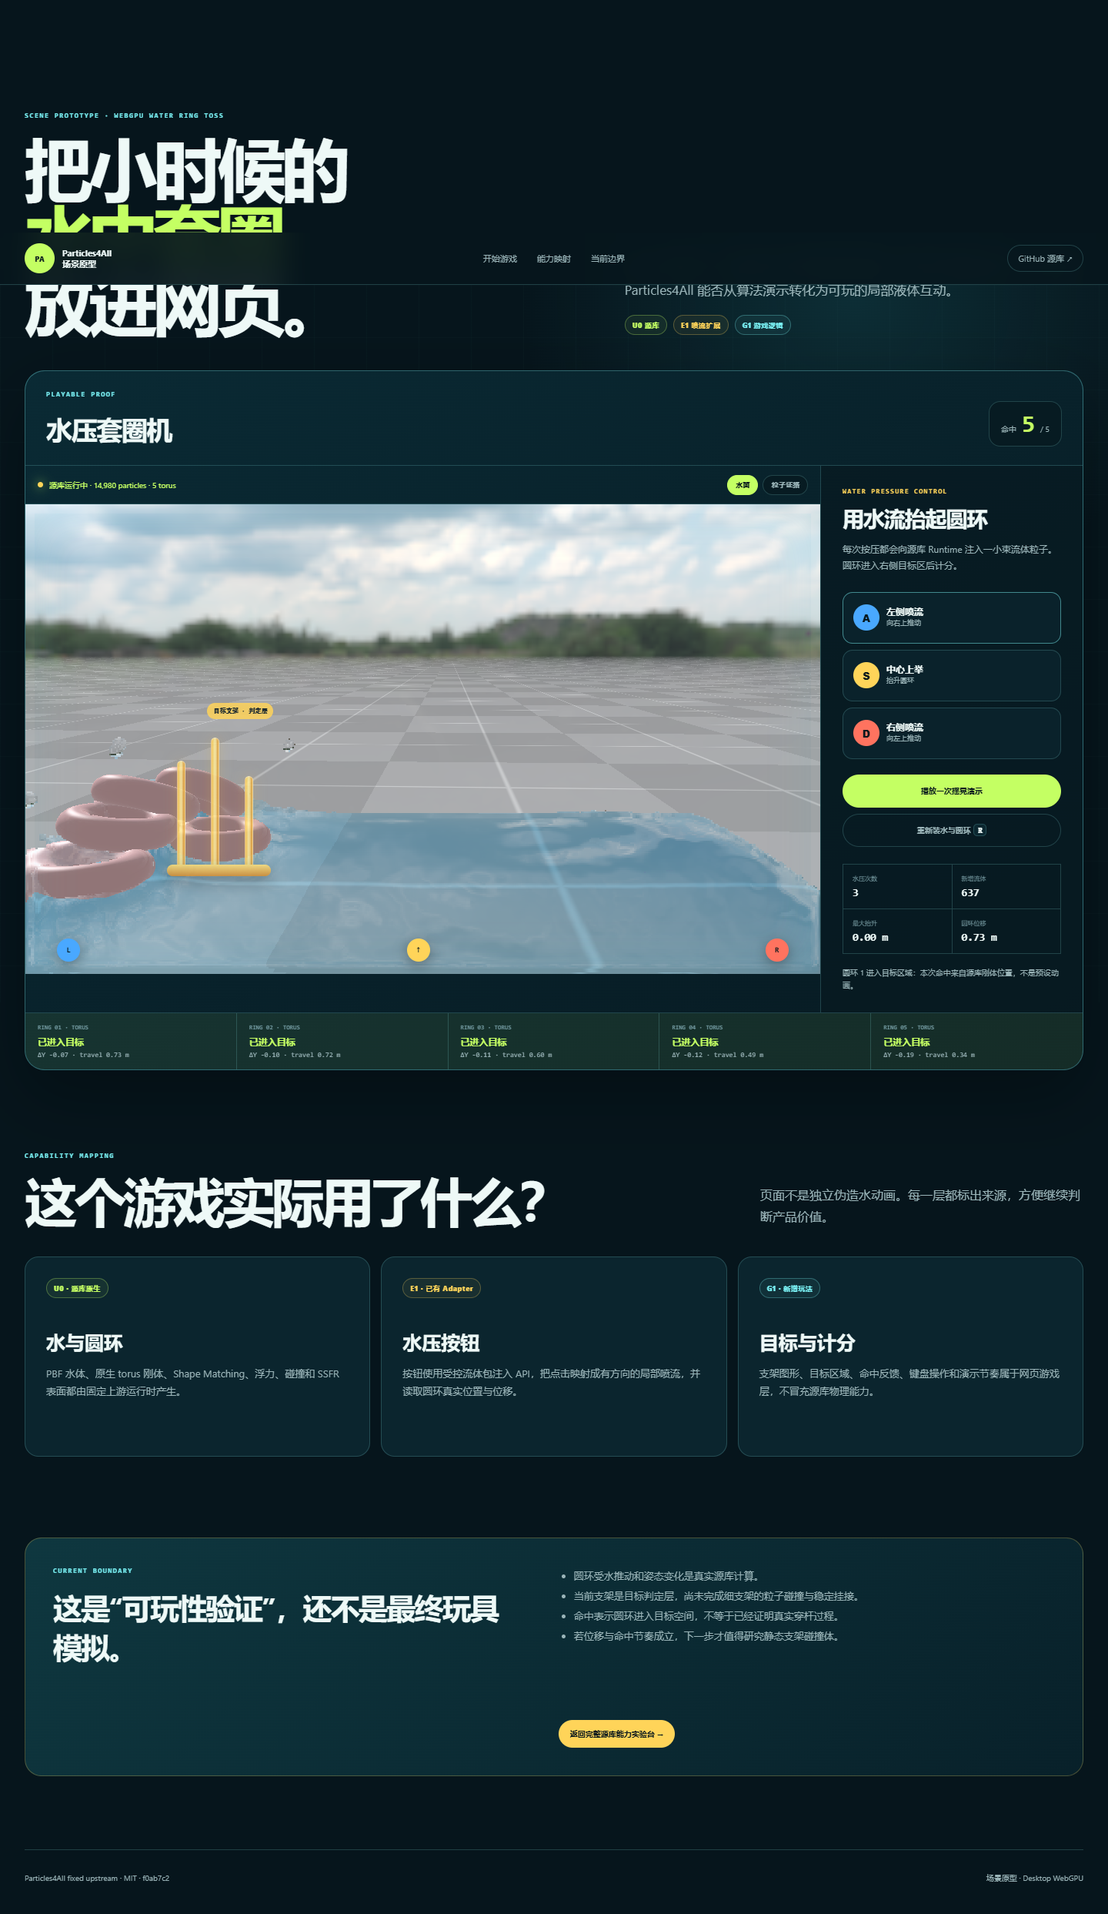
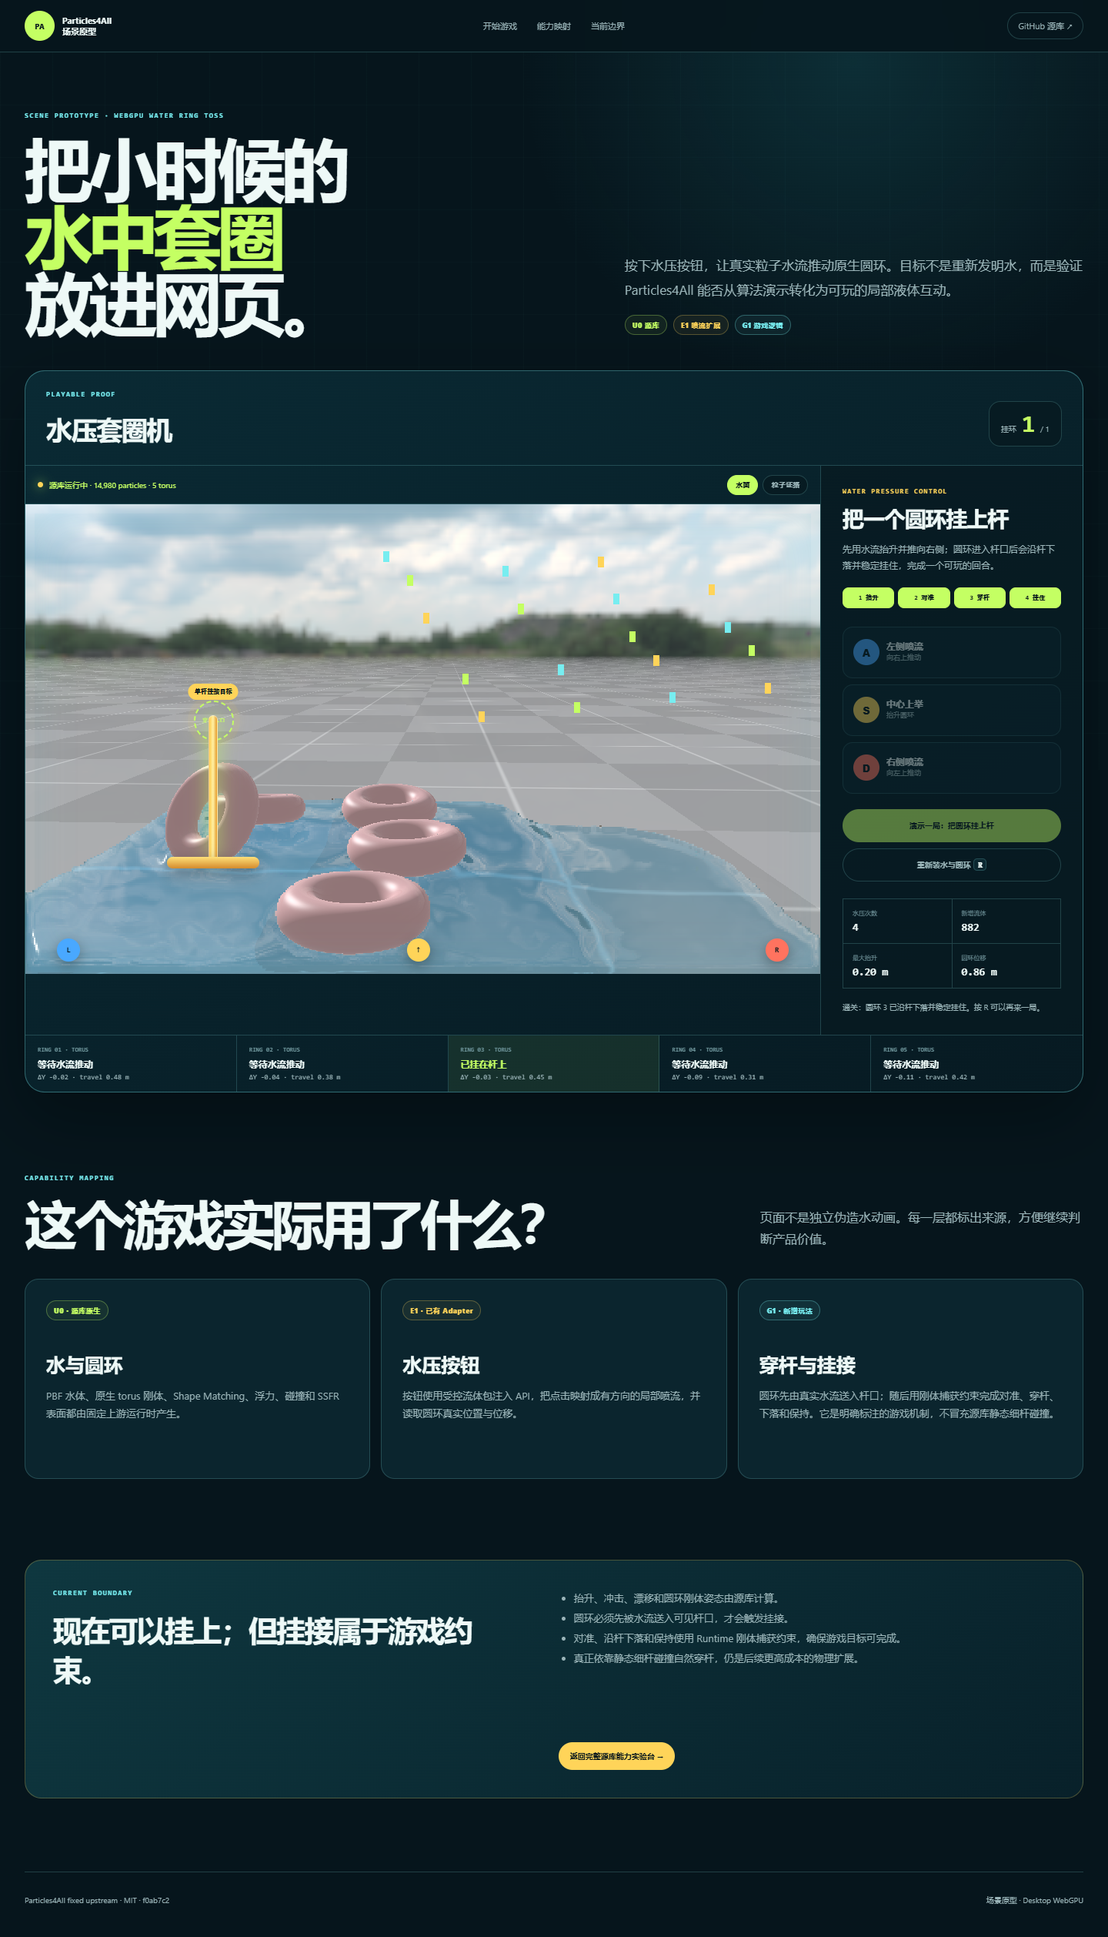
feat: make water ring game winnable

diff --git a/docs/demos/particles4all/water-ring-game/app.js b/docs/demos/particles4all/water-ring-game/app.js
@@ -13,9 +13,21 @@ const source = Object.freeze({
   runtime: '../engine/',
   bodies: 'torus:0.38:0.17,torus:0.42:0.19,torus:0.46:0.21,torus:0.50:0.23,torus:0.54:0.25'
 });
+const level = Object.freeze({
+  id: 'single-peg-01',
+  peg: Object.freeze({
+    base: [1.20, 0.08, 0.50],
+    mouth: [1.20, 0.43, 0.50],
+    thread: [1.20, 0.29, 0.50],
+    seat: [1.20, 0.18, 0.50]
+  }),
+  capture: Object.freeze({ xMin: 0.82, xMax: 1.44, yMin: 0.17, yMax: 0.62, zMin: 0.20, zMax: 0.80, travelMin: 0.09 }),
+  phases: Object.freeze({ alignMs: 900, threadMs: 900, settleMs: 750 })
+});
 const state = {
   ready: false, busy: false, view: 'ssfr', generation: 0, shots: 0, fluidAdded: 0,
-  score: 0, scored: new Set(), baseline: new Map(), bodies: [], maxLift: 0, maxTravel: 0, error: null
+  score: 0, scored: new Set(), baseline: new Map(), bodies: [], maxLift: 0, maxTravel: 0,
+  capture: null, won: false, phase: 'lift', error: null
 };
 let adapter = null;
 let sampleTimer = 0;
@@ -54,6 +66,9 @@ function resetState() {
   state.bodies = [];
   state.maxLift = 0;
   state.maxTravel = 0;
+  state.capture = null;
+  state.won = false;
+  state.phase = 'lift';
   state.error = null;
   dom.score.textContent = '0';
   dom.shots.textContent = '0';
@@ -61,6 +76,17 @@ function resetState() {
   dom.lift.textContent = '—';
   dom.travel.textContent = '—';
   dom.strip.replaceChildren();
+  renderObjective();
+}
+
+function renderObjective() {
+  const order = ['lift', 'align', 'thread', 'hang'];
+  const current = order.indexOf(state.phase);
+  document.querySelectorAll('#objective-track [data-phase]').forEach((item, index) => {
+    item.classList.toggle('active', index === current);
+    item.classList.toggle('complete', index < current || (state.won && index === current));
+  });
+  dom.rack.dataset.phase = state.phase;
 }
 
 function renderRings() {
@@ -69,9 +95,13 @@ function renderRings() {
     const [x, y, z] = body.pose.centre;
     const lift = y - initial[1];
     const travel = Math.hypot(x - initial[0], y - initial[1], z - initial[2]);
+    const isCaptured = state.capture?.bodyId === body.id;
+    const status = state.scored.has(body.id) ? '已挂在杆上'
+      : isCaptured ? ({ align: '正在对准杆口', thread: '正在沿杆下落', hang: '正在稳定挂接' }[state.phase] || '已进入杆口')
+        : '等待水流推动';
     const article = document.createElement('article');
-    article.className = `ring-status${state.scored.has(body.id) ? ' scored' : ''}`;
-    article.innerHTML = `<span>RING ${String(body.id).padStart(2, '0')} · TORUS</span><strong>${state.scored.has(body.id) ? '已进入目标' : '水中运动'}</strong><small>ΔY ${fmt(lift)} · travel ${fmt(travel)} m</small>`;
+    article.className = `ring-status${state.scored.has(body.id) ? ' scored' : ''}${isCaptured ? ' captured' : ''}`;
+    article.innerHTML = `<span>RING ${String(body.id).padStart(2, '0')} · TORUS</span><strong>${status}</strong><small>ΔY ${fmt(lift)} · travel ${fmt(travel)} m</small>`;
     return article;
   }));
 }
@@ -87,19 +117,54 @@ function celebrate() {
   window.setTimeout(() => dom.celebration.replaceChildren(), 1100);
 }
 
-function evaluateScore(body) {
-  if (state.scored.has(body.id) || state.shots === 0) return;
+function distanceTo(a, b) {
+  return Math.hypot(a[0] - b[0], a[1] - b[1], a[2] - b[2]);
+}
+
+function isInsideCapture(body) {
+  if (state.shots === 0 || state.capture || state.won) return false;
   const initial = state.baseline.get(body.id);
-  if (!initial) return;
+  if (!initial) return false;
   const [x, y, z] = body.pose.centre;
-  const lift = y - initial[1];
   const travel = Math.hypot(x - initial[0], y - initial[1], z - initial[2]);
-  const insideTarget = x > 1.05 && x < 1.43 && y > 0.04 && y < 0.28 && z > 0.24 && z < 0.76;
-  if (insideTarget && (lift > 0.055 || travel > 0.13)) {
+  const gate = level.capture;
+  return x > gate.xMin && x < gate.xMax && y > gate.yMin && y < gate.yMax &&
+    z > gate.zMin && z < gate.zMax && travel > gate.travelMin;
+}
+
+async function beginCapture(body, reason = 'water-entry') {
+  if (state.capture || state.won) return false;
+  state.capture = { bodyId: body.id, phaseAt: performance.now(), reason };
+  state.phase = 'align';
+  renderObjective();
+  await adapter.holdBody({ bodyId: body.id, target: level.peg.mouth, rate: 13, limit: 1.7 });
+  dom.status.textContent = `圆环 ${body.id} 已被水流送入杆口，开始对准。`;
+  return true;
+}
+
+async function updateCapture(body) {
+  if (!state.capture || state.capture.bodyId !== body.id || state.won) return;
+  const elapsed = performance.now() - state.capture.phaseAt;
+  if (state.phase === 'align' && (distanceTo(body.pose.centre, level.peg.mouth) < 0.045 || elapsed > level.phases.alignMs)) {
+    state.phase = 'thread';
+    state.capture.phaseAt = performance.now();
+    await adapter.holdBody({ bodyId: body.id, target: level.peg.thread, rate: 10, limit: 0.9 });
+    dom.status.textContent = `圆环 ${body.id} 已对准，正在沿单杆下落。`;
+    renderObjective();
+  } else if (state.phase === 'thread' && (distanceTo(body.pose.centre, level.peg.thread) < 0.035 || elapsed > level.phases.threadMs)) {
+    state.phase = 'hang';
+    state.capture.phaseAt = performance.now();
+    await adapter.holdBody({ bodyId: body.id, target: level.peg.seat, rate: 14, limit: 0.65 });
+    dom.status.textContent = `圆环 ${body.id} 已穿过杆口，正在落到挂接位置。`;
+    renderObjective();
+  } else if (state.phase === 'hang' && (distanceTo(body.pose.centre, level.peg.seat) < 0.026 || elapsed > level.phases.settleMs)) {
+    state.won = true;
     state.scored.add(body.id);
-    state.score = state.scored.size;
-    dom.score.textContent = String(state.score);
-    dom.status.textContent = `圆环 ${body.id} 进入目标区域：本次命中来自源库刚体位置，不是预设动画。`;
+    state.score = 1;
+    dom.score.textContent = '1';
+    dom.status.textContent = `通关：圆环 ${body.id} 已沿杆下落并稳定挂住。按 R 可以再来一局。`;
+    renderObjective();
+    setControls(false);
     celebrate();
   }
 }
@@ -107,10 +172,10 @@ function evaluateScore(body) {
 function syncTargetRack() {
   const project = dom.frame.contentWindow?.__project;
   if (typeof project !== 'function') return;
-  const point = project([1.20, 0.12, 0.50]);
+  const point = project(level.peg.base);
   if (!point) return;
-  dom.rack.style.left = `${Math.max(8, point.x - 80)}px`;
-  dom.rack.style.top = `${Math.max(35, point.y - 205)}px`;
+  dom.rack.style.left = `${Math.max(8, point.x - 60)}px`;
+  dom.rack.style.top = `${Math.max(30, point.y - 230)}px`;
   dom.rack.style.right = 'auto';
   dom.rack.style.bottom = 'auto';
   dom.rack.dataset.projected = 'true';
@@ -128,7 +193,8 @@ async function sampleBodies() {
       const [x, y, z] = body.pose.centre;
       state.maxLift = Math.max(state.maxLift, y - initial[1]);
       state.maxTravel = Math.max(state.maxTravel, Math.hypot(x - initial[0], y - initial[1], z - initial[2]));
-      evaluateScore(body);
+      if (isInsideCapture(body)) await beginCapture(body);
+      await updateCapture(body);
     }
     dom.lift.textContent = `${fmt(state.maxLift)} m`;
     dom.travel.textContent = `${fmt(state.maxTravel)} m`;
@@ -152,7 +218,7 @@ function packetFor(direction) {
 }
 
 async function fireJet(direction, { quiet = false } = {}) {
-  if (!state.ready || state.busy || !adapter) return null;
+  if (!state.ready || state.busy || state.won || !adapter) return null;
   state.busy = true;
   setControls(false);
   try {
@@ -171,7 +237,7 @@ async function fireJet(direction, { quiet = false } = {}) {
     return null;
   } finally {
     state.busy = false;
-    setControls(state.ready);
+    setControls(state.ready && !state.won);
   }
 }
 
@@ -179,13 +245,24 @@ const delay = ms => new Promise(resolve => window.setTimeout(resolve, ms));
 
 async function playGuidedDemo() {
   if (!state.ready || state.busy) return;
-  dom.status.textContent = '摇晃演示：交替释放局部水压，观察圆环抬升、位移和翻滚。';
-  const sequence = ['left', 'up', 'right', 'left', 'up', 'right'];
+  dom.status.textContent = '演示开始：先用水流产生真实位移，再由杆口捕获完成穿杆。';
+  const sequence = ['left', 'up', 'left', 'up', 'right', 'left', 'up', 'left', 'up', 'right', 'left', 'up'];
   for (const direction of sequence) {
+    if (state.capture || state.won) break;
     await fireJet(direction, { quiet: true });
-    await delay(420);
+    await delay(380);
   }
-  dom.status.textContent = '摇晃演示完成。继续手动按压，尝试把圆环送入右侧目标区。';
+  if (!state.capture && !state.won) {
+    const candidates = state.bodies.filter(body => {
+      const initial = state.baseline.get(body.id);
+      return initial && Math.hypot(...body.pose.centre.map((value, index) => value - initial[index])) > level.capture.travelMin;
+    }).sort((a, b) => b.pose.centre[0] - a.pose.centre[0]);
+    if (candidates[0]) await beginCapture(candidates[0], 'guided-assist');
+  }
+  if (state.capture && !state.won) dom.status.textContent = '圆环已到达杆口；正在完成对准、穿杆和挂接。';
+  const deadline = performance.now() + 4500;
+  while (!state.won && performance.now() < deadline) await delay(120);
+  if (!state.won) dom.status.textContent = '尚未挂上：继续用 A / S / D 将圆环送向右侧杆口。';
 }
 
 function decorateRuntime() {
@@ -208,7 +285,7 @@ async function connectRuntime(token) {
     setRuntime('ready', `源库运行中 · ${description.particleCount.toLocaleString()} particles · ${description.bodyCount} torus`);
     dom.cover.classList.add('hidden');
     setControls(true);
-    dom.status.textContent = '按 A / S / D 或点击水压按钮，尝试推动圆环进入右侧目标区。';
+    dom.status.textContent = '目标：先用 A / S / D 让圆环产生位移，再送入右侧单杆入口并挂住。';
     await sampleBodies();
   } catch (error) {
     if (token !== state.generation) return;
@@ -257,7 +334,7 @@ window.addEventListener('keydown', event => {
 });
 
 window.__waterRingGame = {
-  source, state, loadScene, fireJet, playGuidedDemo, sampleBodies,
+  source, level, state, loadScene, fireJet, playGuidedDemo, sampleBodies, beginCapture,
   get adapter() { return adapter; }
 };
 

diff --git a/docs/demos/particles4all/water-ring-game/index.html b/docs/demos/particles4all/water-ring-game/index.html
@@ -30,7 +30,7 @@
     <section id="game" class="game-shell shell" aria-labelledby="game-title">
       <header class="game-head">
         <div><p class="kicker">PLAYABLE PROOF</p><h2 id="game-title">水压套圈机</h2></div>
-        <div class="scoreboard" aria-live="polite"><span>命中</span><strong id="score">0</strong><small>/ 5</small></div>
+        <div class="scoreboard" aria-live="polite"><span>挂环</span><strong id="score">0</strong><small>/ 1</small></div>
       </header>
 
       <div class="game-layout">
@@ -45,8 +45,9 @@
           <div class="tank-window">
             <iframe id="runtime-frame" title="Particles4All 水中套圈 WebGPU Runtime" allow="fullscreen"></iframe>
             <div id="target-rack" class="target-rack" aria-hidden="true">
-              <span class="rack-label">目标支架 · 判定层</span>
-              <i></i><i></i><i></i>
+              <span class="rack-label">单杆挂接目标</span>
+              <span class="capture-gate">穿杆入口</span>
+              <i></i>
               <b></b>
             </div>
             <div class="jet jet-left" aria-hidden="true">L</div>
@@ -59,8 +60,15 @@
 
         <aside class="control-card">
           <p class="control-kicker">WATER PRESSURE CONTROL</p>
-          <h3>用水流抬起圆环</h3>
-          <p class="control-copy">每次按压都会向源库 Runtime 注入一小束流体粒子。圆环进入右侧目标区后计分。</p>
+          <h3>把一个圆环挂上杆</h3>
+          <p class="control-copy">先用水流抬升并推向右侧；圆环进入杆口后会沿杆下落并稳定挂住，完成一个可玩的回合。</p>
+
+          <ol id="objective-track" class="objective-track" aria-label="通关步骤">
+            <li data-phase="lift" class="active">1 抬升</li>
+            <li data-phase="align">2 对准</li>
+            <li data-phase="thread">3 穿杆</li>
+            <li data-phase="hang">4 挂住</li>
+          </ol>
 
           <div class="pressure-controls">
             <button id="jet-left" class="pressure pressure-blue" type="button" disabled><span>A</span><strong>左侧喷流</strong><small>向右上推动</small></button>
@@ -68,7 +76,7 @@
             <button id="jet-right" class="pressure pressure-red" type="button" disabled><span>D</span><strong>右侧喷流</strong><small>向左上推动</small></button>
           </div>
 
-          <button id="guided-demo" class="guided" type="button" disabled>播放一次摇晃演示</button>
+          <button id="guided-demo" class="guided" type="button" disabled>演示一局：把圆环挂上杆</button>
           <button id="reset-game" class="reset" type="button">重新装水与圆环 <kbd>R</kbd></button>
 
           <dl class="live-stats">
@@ -89,13 +97,13 @@
       <div class="mapping-grid">
         <article><span class="label u0">U0 · 源库原生</span><h3>水与圆环</h3><p>PBF 水体、原生 torus 刚体、Shape Matching、浮力、碰撞和 SSFR 表面都由固定上游运行时产生。</p></article>
         <article><span class="label e1">E1 · 已有 Adapter</span><h3>水压按钮</h3><p>按钮使用受控流体包注入 API，把点击映射成有方向的局部喷流，并读取圆环真实位置与位移。</p></article>
-        <article><span class="label g1">G1 · 新增玩法</span><h3>目标与计分</h3><p>支架图形、目标区域、命中反馈、键盘操作和演示节奏属于网页游戏层，不冒充源库物理能力。</p></article>
+        <article><span class="label g1">G1 · 新增玩法</span><h3>穿杆与挂接</h3><p>圆环先由真实水流送入杆口；随后用刚体捕获约束完成对准、穿杆、下落和保持。它是明确标注的游戏机制，不冒充源库静态细杆碰撞。</p></article>
       </div>
     </section>
 
     <section id="boundary" class="boundary shell">
-      <div><p class="kicker">CURRENT BOUNDARY</p><h2>这是“可玩性验证”，还不是最终玩具模拟。</h2></div>
-      <ul><li>圆环受水推动和姿态变化是真实源库计算。</li><li>当前支架是目标判定层，尚未完成细支架的粒子碰撞与稳定挂接。</li><li>命中表示圆环进入目标空间，不等于已经证明真实穿杆过程。</li><li>若位移与命中节奏成立，下一步才值得研究静态支架碰撞体。</li></ul>
+      <div><p class="kicker">CURRENT BOUNDARY</p><h2>现在可以挂上；但挂接属于游戏约束。</h2></div>
+      <ul><li>抬升、冲击、漂移和圆环刚体姿态由源库计算。</li><li>圆环必须先被水流送入可见杆口，才会触发挂接。</li><li>对准、沿杆下落和保持使用 Runtime 刚体捕获约束，确保游戏目标可完成。</li><li>真正依靠静态细杆碰撞自然穿杆，仍是后续更高成本的物理扩展。</li></ul>
       <a href="../">返回完整源库能力实验台 →</a>
     </section>
   </main>

diff --git a/docs/demos/particles4all/water-ring-game/styles.css b/docs/demos/particles4all/water-ring-game/styles.css
@@ -6,3 +6,5 @@
 @media(max-width:1050px){.topbar{grid-template-columns:1fr auto}.topbar nav{display:none}.hero{grid-template-columns:1fr;gap:30px}.game-layout{grid-template-columns:1fr}.tank-card{border-right:0;border-bottom:1px solid var(--line)}.control-card{display:grid;grid-template-columns:1fr 1fr;gap:0 20px}.pressure-controls,.control-card .guided,.control-card .reset,.live-stats,.game-status{grid-column:2}.control-card h3,.control-copy,.control-kicker{grid-column:1}.mapping-grid{grid-template-columns:1fr 1fr}.boundary{grid-template-columns:1fr}.boundary>a{grid-column:1}}
 @media(max-width:700px){:root{--shell:calc(100vw - 28px)}.topbar{padding-inline:14px}.source-link{display:none}.hero{padding-top:58px}h1{font-size:48px}.game-head{align-items:center}.game-head h2{font-size:27px}.game-layout{min-height:0}.tank-window,#runtime-frame{height:470px;min-height:470px}.target-rack{right:2%;transform:scale(.72);transform-origin:right bottom}.tank-toolbar{align-items:flex-start;gap:8px;padding-block:9px}.control-card{display:block;padding:20px}.ring-strip{grid-template-columns:1fr 1fr}.ring-status{border-bottom:1px solid var(--line)}.mapping-grid{grid-template-columns:1fr}.section{padding:76px 0}.section-heading{display:block}.section-heading>p{margin-top:20px}.boundary{gap:28px;padding:25px}.boundary h2{font-size:31px}footer{gap:20px;align-items:flex-start}}
 @media(prefers-reduced-motion:reduce){html{scroll-behavior:auto}.loading-cover span,.celebration i{animation:none}.pressure:hover:not(:disabled){transform:none}}
+.target-rack{width:120px;height:240px;opacity:1}.target-rack b{right:0;width:120px}.target-rack i:nth-of-type(1){right:54px;bottom:13px;width:12px;height:186px}.rack-label{top:0;right:50%;transform:translateX(50%)}.capture-gate{position:absolute;right:33px;bottom:166px;display:grid;width:52px;height:52px;place-items:center;color:var(--yellow);border:2px dashed rgba(255,212,89,.82);border-radius:50%;font:900 7px ui-monospace,Consolas,monospace;letter-spacing:.04em;text-align:center;box-shadow:0 0 0 8px rgba(255,212,89,.06),0 0 24px rgba(255,212,89,.18)}.target-rack[data-phase="align"] .capture-gate,.target-rack[data-phase="thread"] .capture-gate{border-style:solid;animation:gate-pulse .75s ease-in-out infinite alternate}.target-rack[data-phase="hang"] i{box-shadow:0 0 24px rgba(196,255,99,.72)}.target-rack[data-phase="hang"] .capture-gate{color:var(--lime);border-color:var(--lime)}@keyframes gate-pulse{to{transform:scale(1.12);box-shadow:0 0 0 12px rgba(255,212,89,.1),0 0 30px rgba(255,212,89,.32)}}.objective-track{display:grid;grid-template-columns:repeat(4,1fr);gap:5px;margin:18px 0 4px;padding:0;list-style:none}.objective-track li{padding:8px 4px;color:#66878d;background:#071b22;border:1px solid var(--line);border-radius:8px;font:800 8px ui-monospace,Consolas,monospace;text-align:center}.objective-track li.active{color:#07171c;background:var(--yellow);border-color:var(--yellow)}.objective-track li.complete{color:#07171c;background:var(--lime);border-color:var(--lime)}.ring-status.captured:not(.scored){background:rgba(255,212,89,.08)}.ring-status.captured strong{color:var(--yellow)}.ring-status.scored strong{color:var(--lime)}
+@media(prefers-reduced-motion:reduce){.target-rack[data-phase="align"] .capture-gate,.target-rack[data-phase="thread"] .capture-gate{animation:none}}

diff --git a/projects/particles4all/WATER_RING_GAME.md b/projects/particles4all/WATER_RING_GAME.md
@@ -12,7 +12,7 @@
 | --- | --- |
 | `U0` 源库 | PBF 水体、torus 刚体、Shape Matching、浮沉、碰撞、SSFR |
 | `E1` 扩展 | Runtime Adapter 流体包注入、圆环位姿采样、可观察位移 |
-| `G1` 游戏 | 水压按钮、目标区域、计分、键盘操作、引导演示 |
+| `G1` 游戏 | 水压按钮、单杆杆口、挂接状态机、刚体捕获约束、计分、键盘操作、引导演示 |
 
 ## 当前验收
 
@@ -20,9 +20,12 @@
 2. 五个圆环必须来自源库原生 `torus` 形状。
 3. 每次按钮操作必须增加求解器内流体粒子，并推动圆环产生可测位移。
 4. 页面必须显示新增粒子数、最大抬升和最大位移。
-5. 支架暂时只标记为游戏目标判定层，不宣称已完成细支架物理碰撞。
-6. 重置、SSFR/particles 切换、键盘 A/S/D/R 和 WebGPU 错误提示必须可用。
+5. 圆环进入杆口后，必须可见地完成对准、沿杆下落并稳定停留，不能只在宽泛区域内计分。
+6. 通关时必须保持同一个源库 torus 刚体，且其中心接近单杆挂接位置；不能用独立 DOM 圆环替换。
+7. 重置、SSFR/particles 切换、键盘 A/S/D/R 和 WebGPU 错误提示必须可用。
 
 ## 下一 Gate
 
-只有在水压能够稳定形成可玩圆环位移后，才进入“真实支架碰撞体”研究：先验证细支架粒子采样、圆环穿杆和稳定挂接，再决定是否值得修改源库边界/碰撞构造。
+当前已完成“一个圆环、一个单杆”的完整可玩回合：水流负责获得位移，进入杆口后由 Runtime 刚体捕获约束完成对准、穿杆、下落和保持。
+
+下一 Gate 是把游戏约束替换为真实静态细杆碰撞：验证杆体粒子采样、圆环孔洞接触、摩擦与稳定挂接。在该 Gate 通过前，不把当前结果描述为完全物理穿杆模拟。
